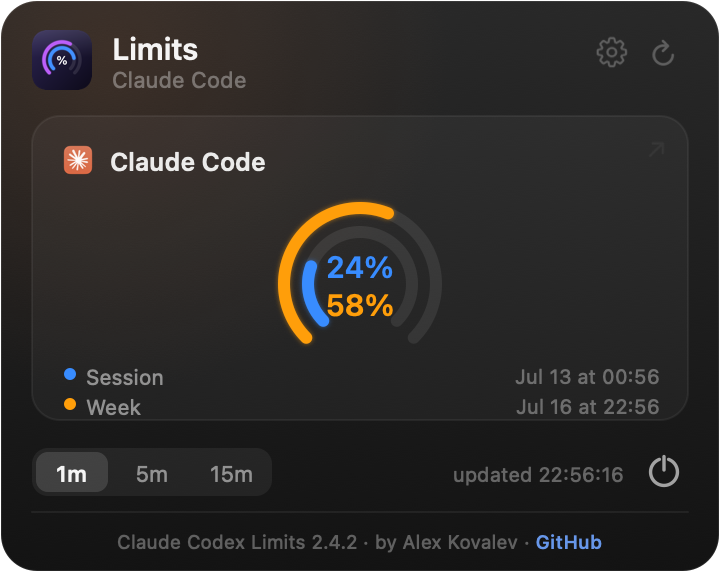
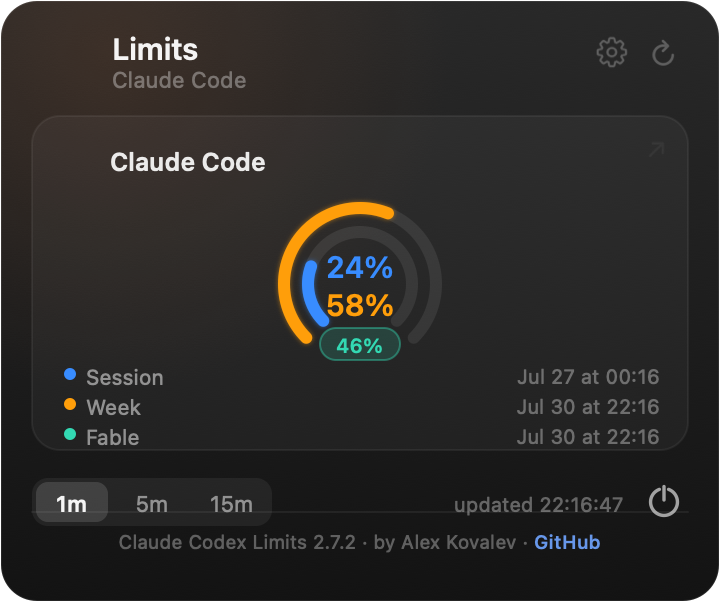
v2.8 — surface per-model weekly limits (Fable) + chime on any limit
Anthropic's usage endpoint grew a structured `limits[]` array carrying
something the flat fields cannot express: per-model weekly allowances
(kind "weekly_scoped", named by scope.model.display_name). It is the
limit you actually hit first — Fable can sit at 100% while the overall
weekly is at 84% — and the old per-model fields (seven_day_opus etc.)
now return null, so this array is the only source for it.

The Claude card gains a percentage pill in the ring's lower opening
(text-only so it clears the arc, tinted so a red 100% doesn't read as a
second bare red number) plus a named row with its reset time, in a
third identity colour. Cards and panel grow by that row only when such
a limit exists and the card is live — logged-out and stale layouts are
unaffected. `limits[]` also backfills session/weekly should the flat
fields go the way of the per-model ones.

Reached-alerts now cover the scoped limit (keyed per model), the
settings caption says "when ANY limit is reached", and its rollover
chimes like any weekly window. A nil reading no longer clears the
persisted reached flag, which would have re-announced an already-hit
limit after a failed fetch.

diff --git a/Sources/LimitsMonitor.swift b/Sources/LimitsMonitor.swift
@@ -78,11 +78,23 @@ func http(_ url: String, method: String, headers: [String: String], body: Data?,
 ///   • keychainError — a genuine keychain read failure (errSec other than 0 / 44).
 enum AuthState { case ok, loggedOut, expired, keychainError }
 
+/// A weekly limit scoped to one model (Anthropic's `limits[].kind == "weekly_scoped"`),
+/// e.g. Fable's own 7-day allowance, which can run out while the overall weekly still has
+/// room. `name` is the backend's own `scope.model.display_name`, so a future model shows up
+/// correctly without a code change.
+struct ScopedLimit {
+    var name: String
+    var percent: Double
+    var reset: Date?
+    var severity: String?      // backend's own "normal" | "warning" | "critical"
+}
+
 struct LimitData {
     var session: Double?
     var weekly: Double?
     var sessionReset: Date?
     var weeklyReset: Date?
+    var scoped: ScopedLimit?   // Claude: the binding per-model weekly limit, when the API reports one
     var plan: String?
     var resetCredits: Int?     // Codex "reset banking" — banked rate-limit resets available
     var asOf: Date?
@@ -180,6 +192,40 @@ func fetchClaude() -> LimitData {
     if let sd = j["seven_day"] as? [String: Any] {
         d.weekly = sd["utilization"] as? Double
         if let rs = sd["resets_at"] as? String { d.weeklyReset = parseISOmicroOffset(rs) }
+    }
+
+    // `limits[]` is the newer, structured view of the same quotas. It carries something the
+    // flat fields can't express: per-model weekly limits (`weekly_scoped`), which is how a
+    // model like Fable can sit at 100% while the overall weekly is still at 84%. The old
+    // per-model fields (`seven_day_opus`/`seven_day_sonnet`) now come back null, so this
+    // array is the only source for that. Also used to backfill session/weekly if Anthropic
+    // ever drops the flat fields the way they dropped the per-model ones.
+    if let limits = j["limits"] as? [[String: Any]] {
+        func pct(_ e: [String: Any]) -> Double? {
+            (e["percent"] as? Double) ?? (e["percent"] as? Int).map(Double.init)
+        }
+        func reset(_ e: [String: Any]) -> Date? {
+            (e["resets_at"] as? String).flatMap(parseISOmicroOffset)
+        }
+        for e in limits where e["kind"] as? String == "session" {
+            if d.session == nil { d.session = pct(e) }
+            if d.sessionReset == nil { d.sessionReset = reset(e) }
+        }
+        for e in limits where e["kind"] as? String == "weekly_all" {
+            if d.weekly == nil { d.weekly = pct(e) }
+            if d.weeklyReset == nil { d.weeklyReset = reset(e) }
+        }
+        // Pick the one that actually constrains you: the backend's own `is_active` flag wins,
+        // otherwise the highest percentage. (There may be several scoped limits in play.)
+        let scopedEntries = limits.filter { $0["kind"] as? String == "weekly_scoped" }
+        let chosen = scopedEntries.first { $0["is_active"] as? Bool == true }
+            ?? scopedEntries.max { (pct($0) ?? 0) < (pct($1) ?? 0) }
+        if let e = chosen,
+           let name = ((e["scope"] as? [String: Any])?["model"] as? [String: Any])?["display_name"] as? String,
+           let p = pct(e) {
+            d.scoped = ScopedLimit(name: name, percent: p, reset: reset(e),
+                                   severity: e["severity"] as? String)
+        }
     }
     d.asOf = Date()
     return d
@@ -349,6 +395,12 @@ func ld2dict(_ d: LimitData) -> [String: Any] {
     if let v = d.weeklyReset { m["wReset"] = v.timeIntervalSince1970 }
     if let v = d.plan { m["plan"] = v }
     if let v = d.resetCredits { m["resetCredits"] = v }
+    if let s = d.scoped {
+        var sm: [String: Any] = ["name": s.name, "percent": s.percent]
+        if let r = s.reset { sm["reset"] = r.timeIntervalSince1970 }
+        if let sev = s.severity { sm["severity"] = sev }
+        m["scoped"] = sm
+    }
     if let v = d.asOf { m["asOf"] = v.timeIntervalSince1970 }
     return m
 }
@@ -361,6 +413,12 @@ func dict2ld(_ m: [String: Any]) -> LimitData {
     if let v = m["wReset"] as? Double { d.weeklyReset = Date(timeIntervalSince1970: v) }
     d.plan = m["plan"] as? String
     d.resetCredits = m["resetCredits"] as? Int
+    if let sm = m["scoped"] as? [String: Any],
+       let name = sm["name"] as? String, let p = sm["percent"] as? Double {
+        d.scoped = ScopedLimit(name: name, percent: p,
+                               reset: (sm["reset"] as? Double).map { Date(timeIntervalSince1970: $0) },
+                               severity: sm["severity"] as? String)
+    }
     if let v = m["asOf"] as? Double { d.asOf = Date(timeIntervalSince1970: v) }
     d.fromCache = true
     return d
@@ -651,8 +709,28 @@ struct Hit { let id: String; let rect: CGRect }
 
 let PANEL_W: CGFloat = 360
 let PANEL_H: CGFloat = 286
+
+/// Identity colour of a per-model weekly limit — a third hue alongside session-blue and
+/// weekly-purple. Severity still overrides it at 50% / 80%, like every other metric.
+let SCOPED_COLOR = NSColor(srgbRed: 0.20, green: 0.85, blue: 0.70, alpha: 1)
+/// Height of the extra card row a per-model limit adds.
+let SCOPED_ROW_H: CGFloat = 15
+
+/// Does this card render the per-model row? Only a healthy, live card does — the
+/// sign-in-problem and stale layouts replace the reset rows with a status message.
+func showsScopedRow(_ d: LimitData) -> Bool {
+    d.present && d.scoped != nil && d.auth == .ok && !isStale(d)
+}
+/// Extra height the cards (and so the panel) need for the per-model row.
+func scopedRowExtra(_ claude: LimitData, _ codex: LimitData) -> CGFloat {
+    (showsScopedRow(claude) || showsScopedRow(codex)) ? SCOPED_ROW_H : 0
+}
+/// Height of the main panel for the given data — grows when a per-model limit is shown.
+func panelMainHeight(_ claude: LimitData, _ codex: LimitData) -> CGFloat {
+    PANEL_H + scopedRowExtra(claude, codex)
+}
 enum PanelMode { case main, settings, whatsnew, claudeFix }
-let APP_VERSION = "2.7.2"
+let APP_VERSION = "2.8"
 let APP_AUTHOR = "Alex Kovalev"
 let REPO_URL = "https://github.com/ArrivaRUS/claude-codex-limits"
 let CLAUDE_INSTALL_CMD = "curl -fsSL https://claude.ai/install.sh | bash"
@@ -837,7 +915,7 @@ func drawPanel(_ ctx: CGContext, size: CGSize, claude: LimitData, codex: LimitDa
     }
 
     // cards
-    let cardsTop: CGFloat = 58, cardH: CGFloat = 152, gap: CGFloat = 12
+    let cardsTop: CGFloat = 58, cardH: CGFloat = 152 + scopedRowExtra(claude, codex), gap: CGFloat = 12
     let cardW = (W - pad * 2 - gap) / 2
 
     func drawCard(_ x: CGFloat, _ w: CGFloat, _ d: LimitData, name: String, icon: String, url: String) {
@@ -901,17 +979,31 @@ func drawPanel(_ ctx: CGContext, size: CGSize, claude: LimitData, codex: LimitDa
         let wTxt = d.weekly == nil ? "—" : numText(d.weekly) + "%"
         text(attr(sTxt, 15, .semibold, sCol), x: cx, topY: cyTop - 18, align: 1)
         text(attr(wTxt, 15, .semibold, wCol), x: cx, topY: cyTop + 1, align: 1)
-        // banked rate-limit resets (Codex "reset banking") → a small ⟳N pill under the weekly %
-        if !stale, let rc = d.resetCredits, rc >= 1 {
-            let num = "\(rc)"
-            let nw = ceil(lineWidth(CTLineCreateWithAttributedString(ctAttr(num, ctFont(10, .semibold), cg(amber)))))
-            let icoW: CGFloat = 9, padL: CGFloat = 6, midGap: CGFloat = 2.5, padR: CGFloat = 7, pillH: CGFloat = 16
-            let pillW = padL + icoW + midGap + nw + padR
-            let pillTop = cyTop + 20
+        // The ring's lower opening carries one supplementary metric: Codex's banked resets
+        // (⟳N), or — for Claude — the per-model weekly limit's own percentage (✦NN%), the
+        // number that actually runs out first when you lean on a single model.
+        // `symbol` is optional: the model pill is text-only so it stays narrow enough to sit
+        // inside the ring's lower opening without touching the arc, and it carries a tinted
+        // fill so a red 100% reads as its own object rather than a second bare red number.
+        func pill(_ symbol: String?, _ label: String, _ color: NSColor, tinted: Bool = false) {
+            let lw = ceil(lineWidth(CTLineCreateWithAttributedString(ctAttr(label, ctFont(10, .semibold), cg(color)))))
+            let icoW: CGFloat = symbol == nil ? 0 : 9, midGap: CGFloat = symbol == nil ? 0 : 2.5
+            let padL: CGFloat = symbol == nil ? 8 : 6, padR: CGFloat = symbol == nil ? 8 : 7, pillH: CGFloat = 16
+            let pillW = padL + icoW + midGap + lw + padR
+            let pillTop = cyTop + 22
             let pillR = rectTL(cx - pillW / 2, pillTop, pillW, pillH)
-            roundFill(pillR, pillH / 2, gray(1, 0.09))
-            drawSF(ctx, "arrow.clockwise", in: CGRect(x: pillR.minX + padL, y: pillR.midY - icoW / 2, width: icoW, height: icoW), amber, weight: .semibold)
-            text(attr(num, 10, .semibold, amber), x: pillR.minX + padL + icoW + midGap, topY: pillTop + (pillH - 10) / 2 - 0.5)
+            roundFill(pillR, pillH / 2, tinted ? color.withAlphaComponent(0.16) : gray(1, 0.09))
+            if tinted { roundStroke(pillR, pillH / 2, color.withAlphaComponent(0.42), 1) }
+            if let sym = symbol {
+                drawSF(ctx, sym, in: CGRect(x: pillR.minX + padL, y: pillR.midY - icoW / 2, width: icoW, height: icoW), color, weight: .semibold)
+            }
+            text(attr(label, 10, .semibold, color), x: pillR.minX + padL + icoW + midGap, topY: pillTop + (pillH - 10) / 2 - 0.5)
+        }
+        let scopedCol = d.scoped.map { metricColor(SCOPED_COLOR, $0.percent) } ?? SCOPED_COLOR
+        if !stale, let rc = d.resetCredits, rc >= 1 {
+            pill("arrow.clockwise", "\(rc)", amber)
+        } else if !stale, let s = d.scoped {
+            pill(nil, numText(s.percent) + "%", scopedCol, tinted: true)
         }
         let l1 = cardsTop + 124, l2 = cardsTop + 139
         if stale {
@@ -935,6 +1027,13 @@ func drawPanel(_ ctx: CGContext, size: CGSize, claude: LimitData, codex: LimitDa
             dot(lx, centerTopY: l2 + 5, wCol)
             text(attr(tr("Неделя", "Week"), 10.5, .regular, textMid), x: lx + 11, topY: l2)
             text(attr(fmtReset(d.weeklyReset), 10, .regular, textLo), x: x + w - 14, topY: l2, align: 2)
+            // Per-model weekly limit — named by the backend, so a future model needs no code change.
+            if showsScopedRow(d), let s = d.scoped {
+                let l3 = l2 + SCOPED_ROW_H
+                dot(lx, centerTopY: l3 + 5, scopedCol)
+                text(attr(s.name, 10.5, .regular, textMid), x: lx + 11, topY: l3)
+                text(attr(fmtReset(s.reset), 10, .regular, textLo), x: x + w - 14, topY: l3, align: 2)
+            }
         }
     }
 
@@ -1128,7 +1227,7 @@ func drawSettings(_ ctx: CGContext, size: CGSize, about: AboutState) -> [Hit] {
 
     // section 3 — limit-reached sound (any 5h/weekly limit hit)
     let capC = c2top + c2H + 14
-    text(attr(tr("ПРИ ДОСТИЖЕНИИ ЛИМИТА (5ч ИЛИ НЕД)", "WHEN A LIMIT IS REACHED (5H / WEEKLY)"), 9.5, .semibold, textLo), x: pad + 2, topY: capC)
+    text(attr(tr("ПРИ ДОСТИЖЕНИИ ЛЮБОГО ЛИМИТА", "WHEN ANY LIMIT IS REACHED"), 9.5, .semibold, textLo), x: pad + 2, topY: capC)
     let c3top = capC + 16, toggleH: CGFloat = 36, c3H = toggleH + sRowH * CGFloat(REACHED_SOUNDS.count)
     roundFill(rectTL(cardX, c3top, cardW, c3H), 12, gray(1, 0.04)); roundStroke(rectTL(cardX, c3top, cardW, c3H), 12, gray(1, 0.06), 1)
     drawSF(ctx, "exclamationmark.triangle", in: rectTL(cardX + 15, c3top + (toggleH - 16) / 2, 16, 16), textMid)
@@ -1538,7 +1637,7 @@ final class LimitsPanelView: NSView {
 
     /// Resize the panel (anchored at its top edge) to fit the current mode/state.
     func resizeToContent() {
-        var targetH = PANEL_H
+        var targetH = panelMainHeight(claude, codex)
         if mode == .settings {
             targetH = settingsTotalHeight(about)
         } else if mode == .whatsnew {
@@ -1680,18 +1779,19 @@ final class PanelController {
 
     func show(below button: NSStatusBarButton) {
         view.mode = .main   // always open on the main screen
+        let mainH = panelMainHeight(view.claude, view.codex)
         var origin = NSPoint(x: 200, y: 200)
         if let win = button.window {
             let bf = button.frame
             let pt = win.convertPoint(toScreen: NSPoint(x: bf.midX, y: bf.minY))
-            origin = NSPoint(x: pt.x - PANEL_W / 2, y: pt.y - PANEL_H - 6)
+            origin = NSPoint(x: pt.x - PANEL_W / 2, y: pt.y - mainH - 6)
             if let scr = win.screen ?? NSScreen.main {
                 let v = scr.visibleFrame
                 origin.x = max(v.minX + 8, min(origin.x, v.maxX - PANEL_W - 8))
                 origin.y = max(v.minY + 8, origin.y)
             }
         }
-        panel.setFrame(NSRect(origin: origin, size: NSSize(width: PANEL_W, height: PANEL_H)), display: false)
+        panel.setFrame(NSRect(origin: origin, size: NSSize(width: PANEL_W, height: mainH)), display: false)
         view.needsDisplay = true
         panel.orderFrontRegardless()
         monitor = NSEvent.addGlobalMonitorForEvents(matching: [.leftMouseDown, .rightMouseDown]) { [weak self] _ in
@@ -2043,12 +2143,19 @@ final class AppDelegate: NSObject, NSApplicationDelegate {
         //   • usage did not climb (newUsed <= oldUsed) — it drops to ~0 at a real reset.
         // So sitting at a constant level (including 0% while idle) never chimes, a slowly
         // creeping resets_at can't false-fire, and a genuine rollover chimes exactly once.
-        let resetWins: [(rkey: String, ukey: String, date: Date?, used: Double?, is5h: Bool)] = [
+        var resetWins: [(rkey: String, ukey: String, date: Date?, used: Double?, is5h: Bool)] = [
             ("rst_c5", "use_c5", claude.sessionReset, claude.session, true),
             ("rst_x5", "use_x5", codex.sessionReset,  codex.session,  true),
             ("rst_c7", "use_c7", claude.weeklyReset,  claude.weekly,  false),
             ("rst_x7", "use_x7", codex.weeklyReset,   codex.weekly,   false),
         ]
+        // A per-model weekly limit (e.g. Fable) is a weekly window too, so its rollover —
+        // the moment that model becomes usable again — chimes with the weekly sound.
+        // Keyed by model name so each model tracks its own window independently.
+        if let s = claude.scoped {
+            let k = s.name.lowercased()
+            resetWins.append(("rst_cs_" + k, "use_cs_" + k, s.reset, s.percent, false))
+        }
         var fired5 = false, fired7 = false
         for w in resetWins {
             guard let date = w.date else { continue }
@@ -2070,13 +2177,19 @@ final class AppDelegate: NSObject, NSApplicationDelegate {
         // is already at the limit (e.g. it was hit while the app was closed). It never
         // re-alerts a state already recorded as reached. Crucially it does NOT depend on the
         // in-memory `soundBaseline`, so a restart can't silently swallow the alert.
-        let reachWins: [(key: String, used: Double?)] = [
+        var reachWins: [(key: String, used: Double?)] = [
             ("rch_c5", claude.session), ("rch_x5", codex.session),
             ("rch_c7", claude.weekly), ("rch_x7", codex.weekly),
         ]
+        // ...including a per-model weekly limit, which is the one you actually hit first
+        // when you lean on a single model — so running out of Fable chimes like any other.
+        if let s = claude.scoped { reachWins.append(("rch_cs_" + s.name.lowercased(), s.percent)) }
         var firedReached = false
         for w in reachWins {
-            let nowR = (w.used ?? 0) >= 99.5
+            // No reading (failed fetch) must not erase the recorded state — otherwise the
+            // next successful reading would re-announce a limit that was already reached.
+            guard let used = w.used else { continue }
+            let nowR = used >= 99.5
             let wasR = d.bool(forKey: w.key)
             if nowR, !wasR { firedReached = true }
             d.set(nowR, forKey: w.key)
@@ -2298,9 +2411,10 @@ if CommandLine.arguments.contains("--panel-preview") {
     var c = fetchClaude(); var x = fetchCodex(live: false); applyCache(&c, &x)
     let s: CGFloat = 2
     func renderPanel(_ cl: LimitData, _ cx: LimitData, _ path: String) {
-        guard let ctx = bitmapContext(Int(PANEL_W * s), Int(PANEL_H * s)) else { return }
+        let ph = panelMainHeight(cl, cx)
+        guard let ctx = bitmapContext(Int(PANEL_W * s), Int(ph * s)) else { return }
         ctx.scaleBy(x: s, y: s)
-        _ = drawPanel(ctx, size: CGSize(width: PANEL_W, height: PANEL_H),
+        _ = drawPanel(ctx, size: CGSize(width: PANEL_W, height: ph),
                       claude: cl, codex: cx, interval: 60, updated: Date(), about: AboutState())
         guard let img = ctx.makeImage() else { return }
         let data = NSMutableData()
@@ -2376,7 +2490,9 @@ if CommandLine.arguments.contains("--screenshots") {
         d.sessionReset = Date().addingTimeInterval(srOff); d.weeklyReset = Date().addingTimeInterval(wrOff); d.asOf = Date()
         return d
     }
-    let claude = demo(24, 58, 2 * 3600, 4 * 86400)        // blue / amber
+    var claude = demo(24, 58, 2 * 3600, 4 * 86400)        // blue / amber
+    claude.scoped = ScopedLimit(name: "Fable", percent: 46,
+                                reset: Date().addingTimeInterval(4 * 86400), severity: "normal")
     var codex  = demo(76, 43, 3 * 3600 + 1800, 2 * 86400) // amber / blue
     codex.resetCredits = 2                                 // show the banked-resets badge
     let claudeOnly = claude; var noCodex = codex; noCodex.present = false
@@ -2392,9 +2508,10 @@ if CommandLine.arguments.contains("--screenshots") {
         ReleaseNote(version: "2.0", date: "2026-06-28", body: "<!--RU-->\n**Автообновления.**\nФоновая проверка, скачивание с прогрессом, установка с перезапуском.\n<!--EN-->\n**Automatic updates.**\nBackground checks, download with progress, install & relaunch."),
     ]
     func renderPanel(_ c: LimitData, _ x: LimitData, _ about: AboutState, _ path: String) {
-        guard let ctx = bitmapContext(Int(PANEL_W * s2), Int(PANEL_H * s2)) else { return }
+        let ph = panelMainHeight(c, x)
+        guard let ctx = bitmapContext(Int(PANEL_W * s2), Int(ph * s2)) else { return }
         ctx.scaleBy(x: s2, y: s2)
-        _ = drawPanel(ctx, size: CGSize(width: PANEL_W, height: PANEL_H), claude: c, codex: x, interval: 60, updated: Date(), about: about)
+        _ = drawPanel(ctx, size: CGSize(width: PANEL_W, height: ph), claude: c, codex: x, interval: 60, updated: Date(), about: about)
         savePNG(ctx, path)
     }
     func renderSettings(_ about: AboutState, _ path: String) {

diff --git a/README.md b/README.md
@@ -3,7 +3,7 @@
 **English** · [Русский](README.ru.md)
 
 <p align="center">
-  <img src="docs/banner.png?v=242" alt="Claude Codex Limits — macOS menu bar usage limits" width="820">
+  <img src="docs/banner.png?v=280" alt="Claude Codex Limits — macOS menu bar usage limits" width="820">
 </p>
 
 A tiny macOS menu-bar app that shows how much of your **Claude Code** and **Codex**
@@ -13,9 +13,9 @@ Each row shows `session% / weekly%` (the rolling 5‑hour window and the 7‑day
 with the product's icon to its left. Click the tray icon for a detailed popover.
 
 <p align="center">
-  <img src="docs/menubar-dark.png?v=242" width="180" alt="Menu bar (dark)">
+  <img src="docs/menubar-dark.png?v=280" width="180" alt="Menu bar (dark)">
   &nbsp;&nbsp;
-  <img src="docs/panel-en.png?v=242" width="320" alt="Popover">
+  <img src="docs/panel-en.png?v=280" width="320" alt="Popover">
 </p>
 
 ## Features
@@ -23,6 +23,7 @@ with the product's icon to its left. Click the tray icon for a detailed popover.
 - **Two products, one glance** — Claude Code (orange) stacked over Codex, `session / weekly` percentages.
 - **Live data** — both are pulled from the same backends their CLIs use, so Codex matches its web page (not a stale local cache).
 - **Honest when a login lapses** — if Claude Code's saved credentials expire, the card greys out with an “as of …” note instead of passing off old numbers (and a reset time in the past) as current. It heals on its own the moment you use Claude Code again.
+- **Per‑model weekly limits** — a model with its own 7‑day allowance (e.g. Fable) gets its own percentage pill and a row with its reset time. This is usually the limit you actually run into first: it can sit at 100% while your overall weekly still has room. The model is named by the backend, so new ones appear on their own.
 - **Codex reset credits** — if you've banked rate‑limit resets, a small ⟳ badge on the Codex card shows how many you have.
 - **Color warnings** — numbers and gauges turn amber at ≥50% and red at ≥80% of a limit.
 - **Detailed popover** — click the tray icon for ring gauges, exact percentages, and reset times.
@@ -30,23 +31,23 @@ with the product's icon to its left. Click the tray icon for a detailed popover.
 - **One or both** — if only Claude Code or only Codex is set up, the tray and popover collapse to a single row / single card.
 - **Opening the popover forces a fresh reading** right then.
 - **Refresh interval** — 1 / 5 / 15 minutes, your choice.
-- **Sound alerts (optional)** — a cheerful chime when a 5h or weekly limit *resets*, and a sad shutdown‑style tone when one is *reached*; choose a sound per event in the in‑app settings (⚙).
+- **Sound alerts (optional)** — a cheerful chime when a 5h or weekly limit *resets*, and a sad shutdown‑style tone when **any** limit is *reached*, per‑model ones included; choose a sound per event in the in‑app settings (⚙).
 - **Automatic updates** — checks for new releases in the background (on launch + every 6 h); when one appears, a dot badges the tray icon and the ⚙ gear. In Settings, **What's new** shows the accumulated release notes for every version you skipped, and **Download** → live progress bar → **Install & Relaunch** takes you straight to the latest. No Sparkle, no notarization required.
 - **Bilingual (RU / EN)** — switch the whole interface between Russian and English in Settings; release notes load in the chosen language too. Russian by default.
 - **Light & dark** menu bar, retina‑crisp.
 - **Launch at login** — a toggle right in Settings; no Dock icon, no dependencies beyond what macOS already ships.
 
 <p align="center">
-  <img src="docs/menubar-single.png?v=242" width="140" alt="Single product (menu bar)">
+  <img src="docs/menubar-single.png?v=280" width="140" alt="Single product (menu bar)">
   &nbsp;&nbsp;
-  <img src="docs/panel-single-en.png?v=242" width="300" alt="Single product (popover)">
+  <img src="docs/panel-single-en.png?v=280" width="300" alt="Single product (popover)">
 </p>
 <p align="center"><sub>With only one subscription set up, the tray and popover collapse to a single row / card.</sub></p>
 
-<p align="center"><img src="docs/settings-en.png?v=242" width="250" alt="Settings screen"></p>
+<p align="center"><img src="docs/settings-en.png?v=280" width="250" alt="Settings screen"></p>
 <p align="center"><sub>Settings (⚙): interface language · launch at login · a sound per event (resets &amp; limit‑reached) · built‑in updates.</sub></p>
 
-<p align="center"><img src="docs/whatsnew-en.png?v=242" width="320" alt="What's new screen"></p>
+<p align="center"><img src="docs/whatsnew-en.png?v=280" width="320" alt="What's new screen"></p>
 <p align="center"><sub>“What’s new”: release notes for every version you skipped, then update straight from there.</sub></p>
 
 ## How it works
@@ -55,7 +56,10 @@ with the product's icon to its left. Click the tray icon for a detailed popover.
 credentials from the macOS Keychain (`Claude Code-credentials`), refreshing the access
 token the same way the Claude Code CLI does when it expires, and calls Anthropic's
 usage endpoint `GET /api/oauth/usage`. **This does not consume any of your quota** — it
-only reads `five_hour.utilization` (session) and `seven_day.utilization` (weekly).
+only reads `five_hour.utilization` (session) and `seven_day.utilization` (weekly), plus the
+structured `limits[]` array for per‑model weekly allowances (`kind: "weekly_scoped"`, named
+by `scope.model.display_name`). The older per‑model fields (`seven_day_opus` and friends)
+now come back `null`, so `limits[]` is the only source for those.
 
 **Codex** (OpenAI). The app fetches **live** usage from the same backend the Codex CLI
 uses — `GET /backend-api/wham/usage` — on every refresh (launch, the 1/5/15‑min timer,
@@ -83,7 +87,7 @@ you turn it on in Settings.
 
 ### 2. From the .dmg
 
-1. Download `ClaudeCodexLimits-2.7.2.dmg` from the [Releases](../../releases) page.
+1. Download `ClaudeCodexLimits-2.8.dmg` from the [Releases](../../releases) page.
 2. Open it and drag **Claude Codex Limits** into **Applications**.
 3. Launch it. The build isn't notarized, so on **macOS Sequoia / Tahoe** the first
    launch is blocked. Do this once:
@@ -119,7 +123,7 @@ Requirements: macOS 13+, the Xcode command‑line tools (`swiftc`). No packages 
 ## Build a release
 
 ```bash
-./scripts/make-dmg.sh     # → dist/ClaudeCodexLimits-2.7.2.dmg
+./scripts/make-dmg.sh     # → dist/ClaudeCodexLimits-2.8.dmg
 ```
 
 ## Project layout
